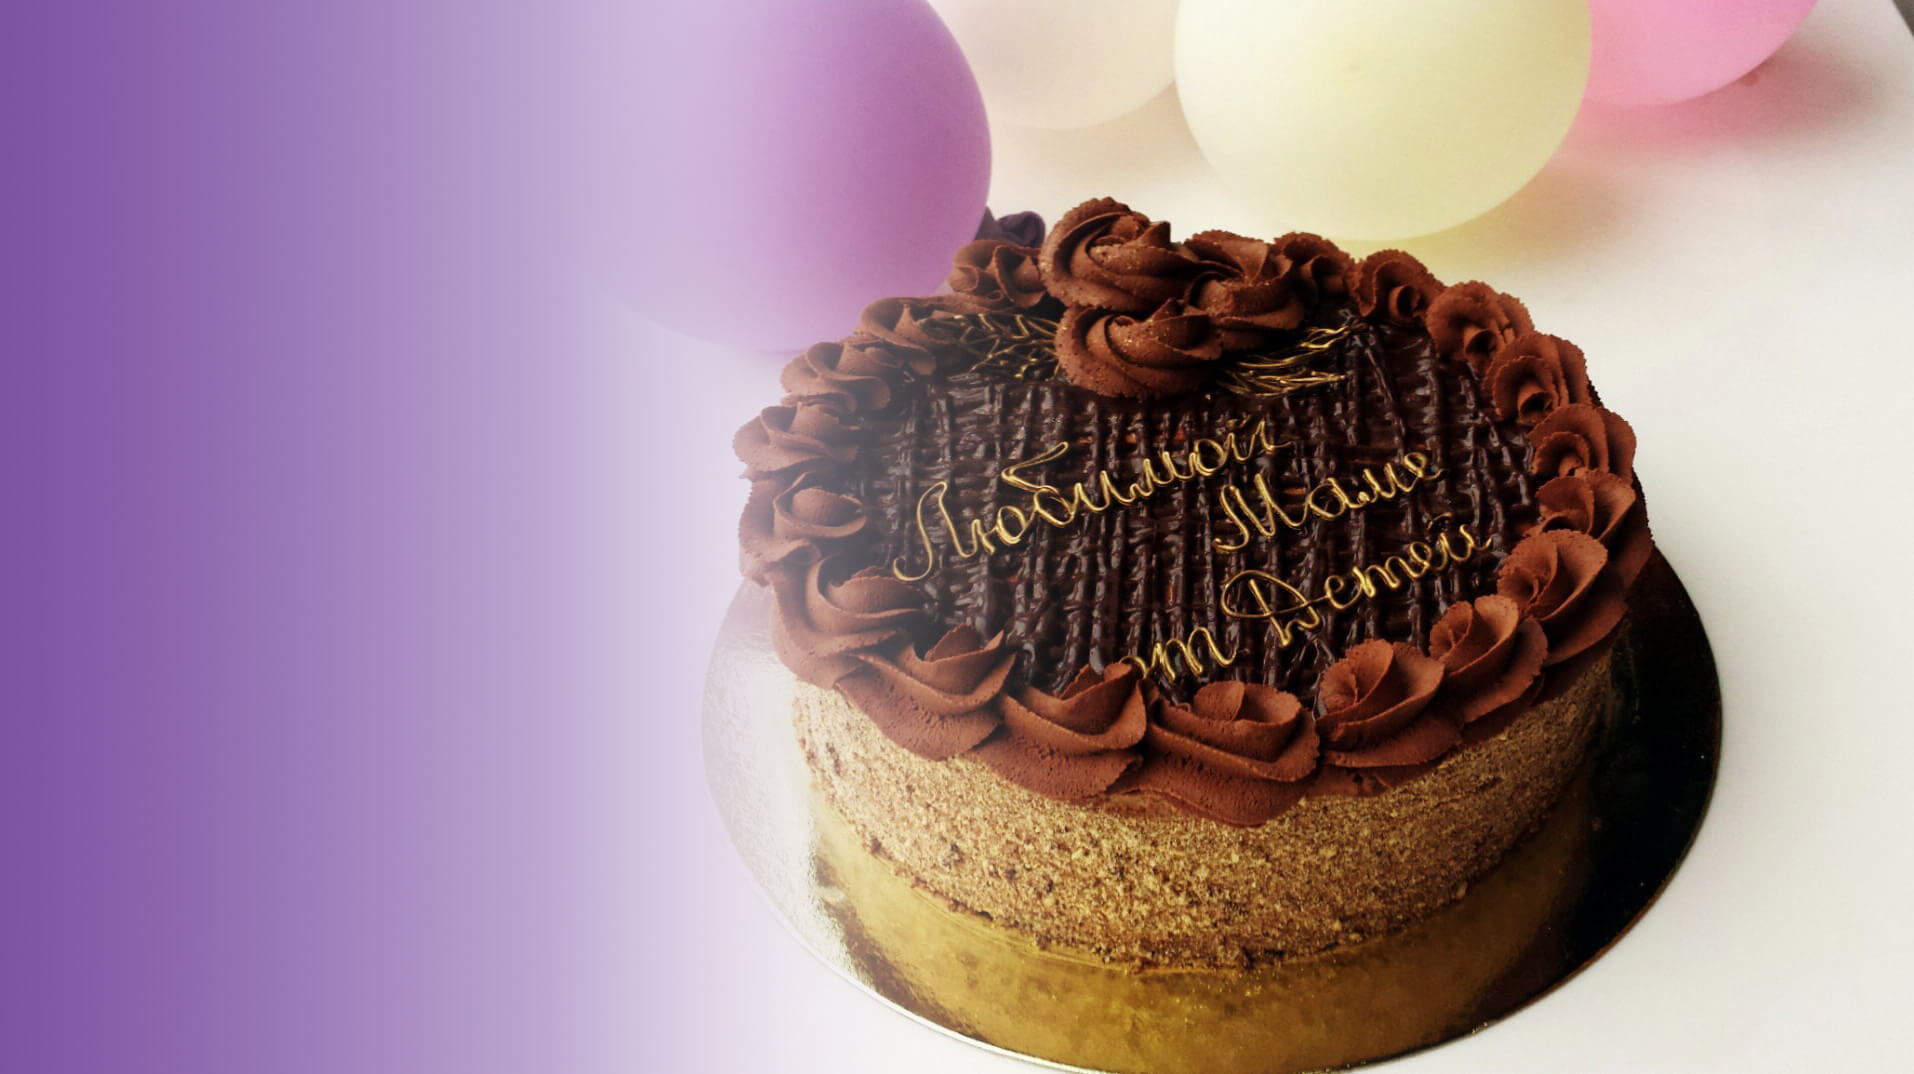
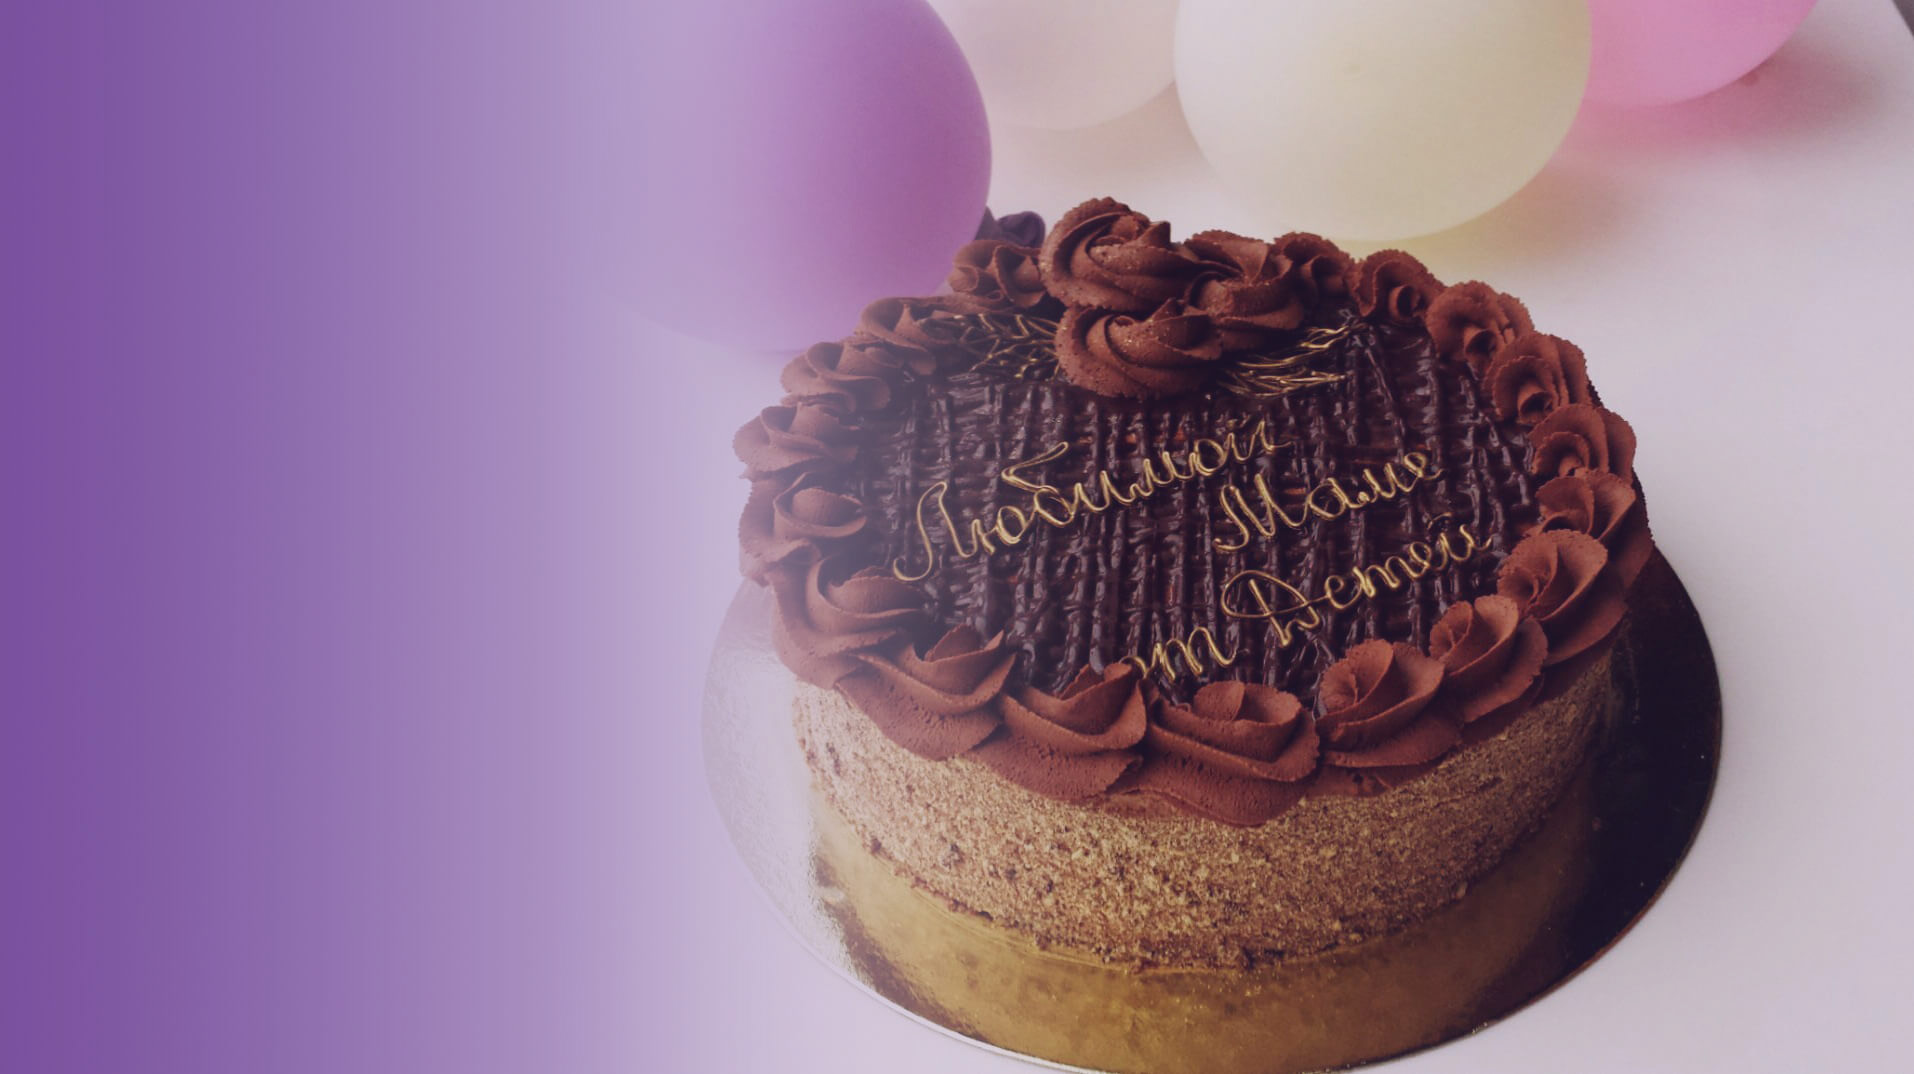
fonts upd

diff --git a/front-end/css/main.css b/front-end/css/main.css
@@ -1,14 +1,18 @@
 * {
   -webkit-box-sizing: border-box;
-  box-sizing: border-box;
-  font-family: "Roboto", sans-serif; }
+  box-sizing: border-box;}
 
 ul {
   padding: 0;
   margin: 0;
   list-style-type: none; }
+p {
+  font-family: 'Roboto', sans-serif;
 
+}
 a {
+  font-family: 'Source Sans Pro', sans-serif;
+  letter-spacing: 1px;
   text-decoration: none; }
 
 img {
@@ -123,6 +127,7 @@ img {
 .page-header {
   height: 100vh;
   background-image: url(../img/header-bg.jpg);
+  background-position: 100% 50%;
   background-size: cover;
   position: relative; }
 
@@ -144,9 +149,10 @@ img {
   display: flex; }
 
 .header-top-row-column span {
+  font-family: 'Roboto', sans-serif;
+  letter-spacing: 1px;
   font-size: 14px;
   color: #DCE3ED;
-  letter-spacing: 0.5px;
   font-weight: bold;
   text-transform: lowercase; }
 
@@ -271,7 +277,7 @@ img {
 .header-link {
   position: relative;
   line-height: 65px;
-  font-weight: 300;
+  font-weight: 400;
   font-size: 16px;
   letter-spacing: 0.5px;
   color: #6C488F;
@@ -301,7 +307,7 @@ img {
   background-color: #fff; }
 
 .header-link-bold {
-  font-weight: 800; }
+  font-weight: 900; }
 
 .header-cake-icon span {
   display: block;
@@ -335,24 +341,26 @@ img {
   transform: translateY(-50%);
   max-width: 470px;
   width: 100%;
-  font-family: "Open Sans", sans-serif;
   color: #DCE3ED; }
 
 .top-section-text p:first-child {
   font-weight: 800;
+  letter-spacing: 1px;
   text-transform: uppercase;
   font-size: 14px; }
 
 .top-section-text .large-text {
+  font-family: 'Roboto', sans-serif;
   color: #F37A29;
-  font-weight: 800;
-  font-size: 72px;
+  font-weight: 900;
+  letter-spacing: 2px;
+  font-size: 82px;
   line-height: 72px;
-  margin: 25px 0; }
+  margin: 20px 0; }
 
 .top-section-text .light-text {
   font-size: 18px;
-  font-weight: bold; }
+  letter-spacing: 0.5px; }
 
 .advantages-wrapper {
   display: -webkit-box;
@@ -376,7 +384,6 @@ img {
   font-size: 18px; }
 
 .advantages-text {
-  font-weight: 300;
   font-size: 16px; }
 
 .banners-wrapper {
@@ -404,9 +411,20 @@ img {
   height: 300px;
   padding: 10px;
   padding-top: 40px; }
+.banners-item-overlay {
+  position: absolute;
+  width: 100%;
+  height: 100%;
+  left: 0;
+  top: 0;
+  right: 0;
+  bottom: 0;
 
+}
 .banners-item p {
-  font-family: "Open Sans", sans-serif; }
+  font-size: 18px;
+  font-family: 'Source Sans Pro', sans-serif;
+ }
 
 .banners-item-left {
   margin-right: 30px;
@@ -439,25 +457,29 @@ img {
 
 .banners-item-caption {
   color: #F37A29;
+  font-family: 'Roboto', sans-serif;
   font-size: 30px;
-  font-weight: 800;
+  font-weight: 900;
+  letter-spacing: 1px;
   text-transform: uppercase;
   line-height: 30px;
   margin-top: 0;
   margin-bottom: 15px; }
 
 .banners-item-addition {
+  font-family: 'Source Sans Pro', sans-serif;
   font-weight: 700;
+  letter-spacing: 0.5px;
   text-transform: uppercase;
   font-size: 14px;
   margin: 0; }
 
 .banners-price {
-  font-family: "Open Sans", sans-serif;
+  font-family: 'Roboto', sans-serif;
   font-size: 30px;
   text-transform: uppercase;
-  font-weight: 700;
-  display: inline-block;
+  letter-spacing: 0.5px;
+  font-weight: 900;
   margin-bottom: 20px; }
 
 .banners-btn {
@@ -465,7 +487,7 @@ img {
   bottom: 10px;
   color: #6ED3CF;
   text-transform: uppercase;
-  font-weight: bold;
+  font-weight: 700;
   padding: 15px;
   -webkit-transition: 0.3s ease;
   -o-transition: 0.3s ease;
@@ -487,23 +509,25 @@ img {
   padding-left: 50px; }
 
 .banner-large-text {
+  font-family: 'Roboto', sans-serif;
+  letter-spacing: 0.5px;
   font-size: 36px;
   line-height: 40px;
-  font-weight: 700;
+  font-weight: 900;
   text-transform: uppercase;
   color: #00b8b8;
   margin-top: 0;
   margin-bottom: 15px; }
 
 .banner-info {
-  font-weight: 300;
-  font-size: 12px;
-  font-weight: 300;
+  font-family: 'Source Sans Pro', sans-serif;
+  font-size: 14px;
   color: #636363;
   letter-spacing: 1px;
   margin-bottom: 20px; }
 
 .banner-top-p {
+  font-family: 'Roboto', sans-serif;
   font-weight: 900;
   letter-spacing: 1px;
   font-size: 14px;
@@ -588,6 +612,7 @@ img {
 .footer-link {
   display: block;
   font-size: 18px;
+  letter-spacing: 0.5px;
   padding: 5px 0;
   -webkit-transition: 0.3s ease;
   -o-transition: 0.3s ease;

diff --git a/front-end/index.html b/front-end/index.html
@@ -4,6 +4,8 @@
     <title>Катрин фон Кекс</title>
     <meta charset="UTF-8">
     <meta name="viewport" content="width=device-width, initial-scale=1">
+<link href="https://fonts.googleapis.com/css?family=Roboto:300,400,900|Source+Sans+Pro:400,700&amp;subset=cyrillic" rel="stylesheet">
+    <link rel="shortcut icon" type="image/png" href="img/favicon.png" />
 		<link rel="stylesheet" href="fonts/stylesheet.css">
    		<link rel="stylesheet" href="css/normalize.css">
    		<link rel="stylesheet" href="css/main.css">
@@ -323,6 +325,7 @@
 		<div class="banners-wrapper">
 
 			<div class="banners-item banners-item-left">
+          <div class="banners-item-overlay"></div>
 					<p class="banners-item-addition">Лучшее предложение</p>
           <h3 class="banners-item-caption">Набор капкейков</h3>
 					<span class="banners-price">490 руб</span>
